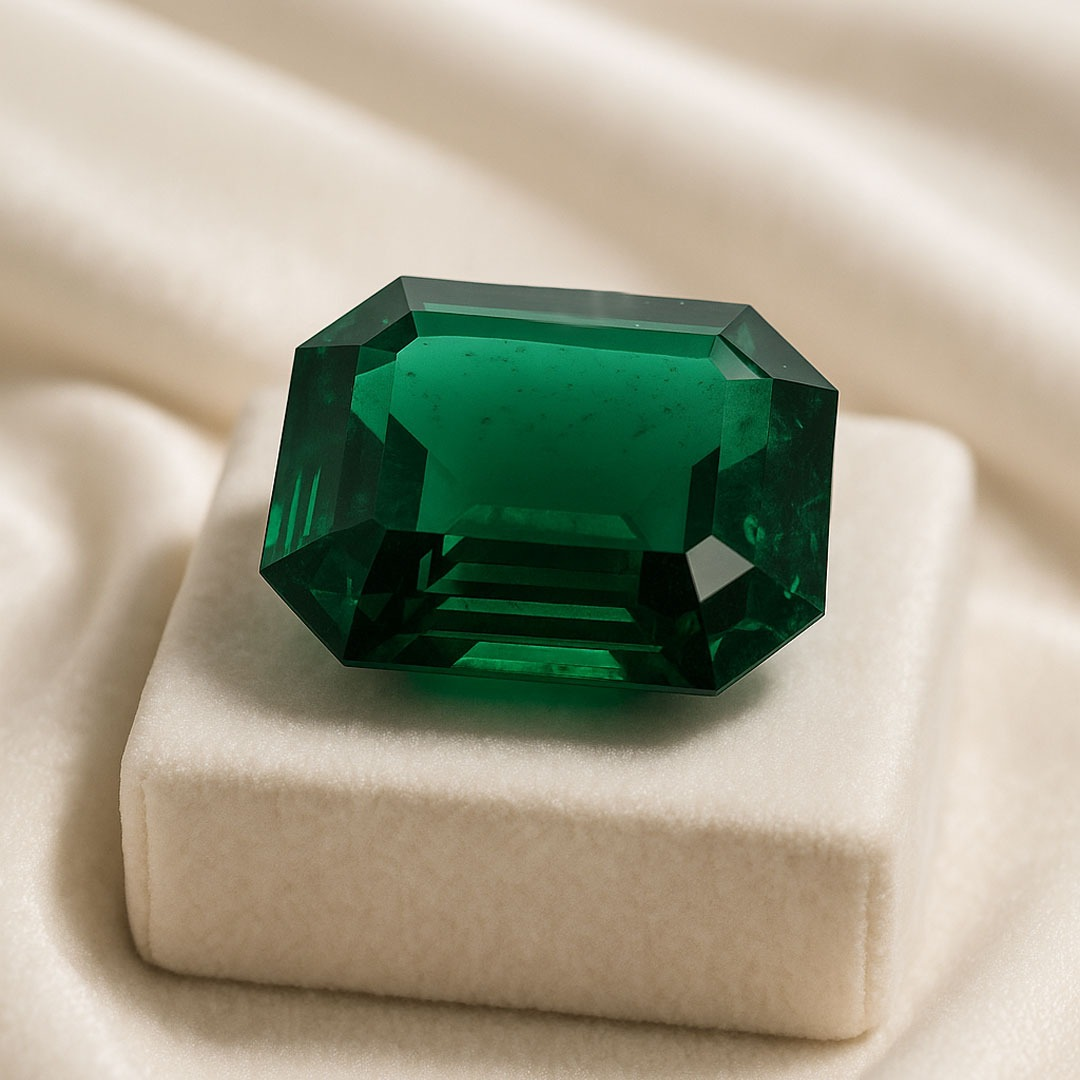
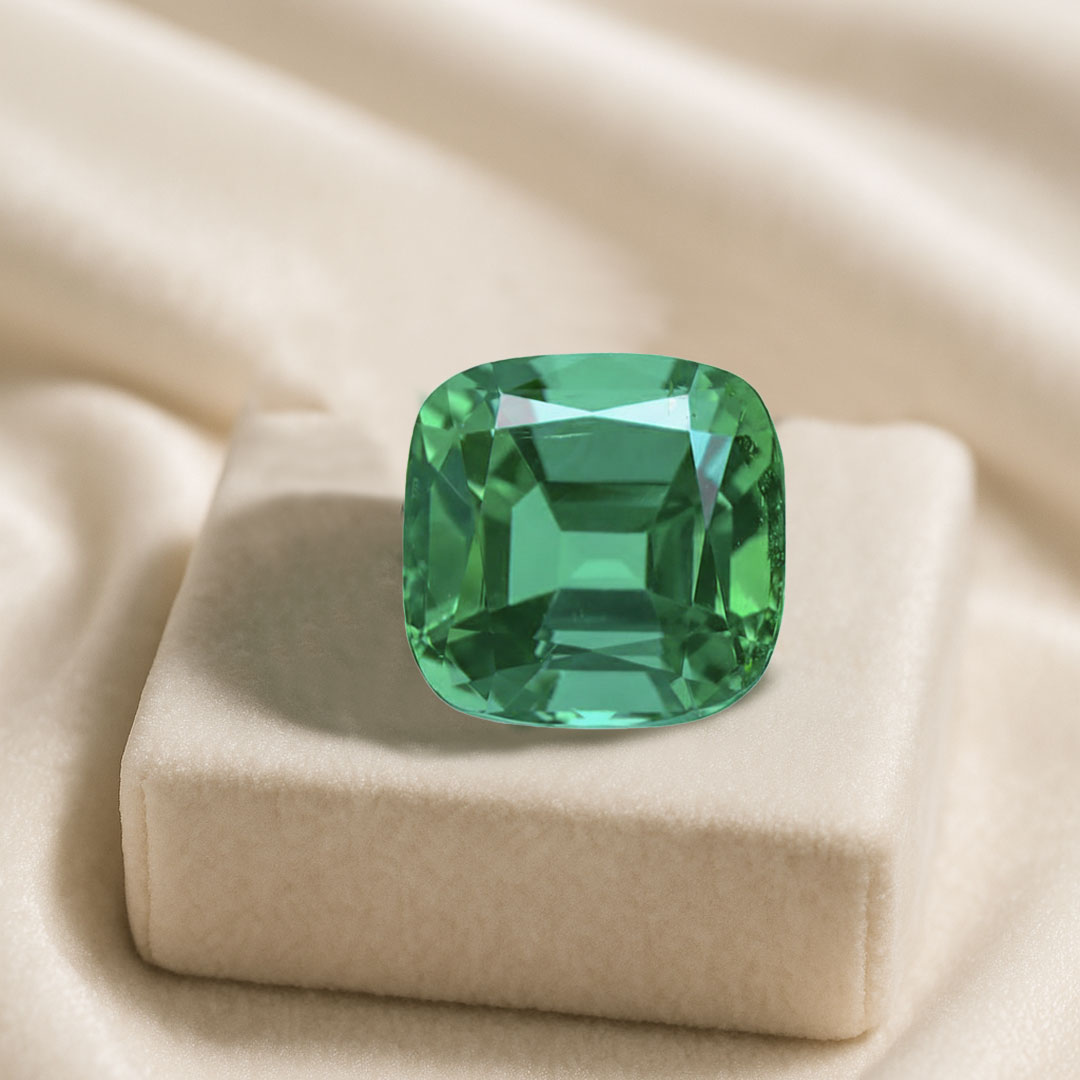
added new testimonial image and emerald line image

Changed region(s): [[0.2139, 0.2444, 0.825, 0.7333]]

diff --git a/components/newHome/TestimonialsSection.tsx b/components/newHome/TestimonialsSection.tsx
@@ -6,7 +6,7 @@ import { Playfair_Display, Open_Sans } from "next/font/google";
 import test1 from "@/app/assets/test1.jpg";
 import test2 from "@/app/assets/test2.jpg";
 import test3 from "@/app/assets/test3.jpg";
-import BgImage from "@/public/newHome/Testimonial/Testimonial.png";
+import BgImage from "@/public/newHome/Testimonial/Testimonial1.png";
 import { motion, AnimatePresence } from "framer-motion";
 
 const playFair = Playfair_Display({
